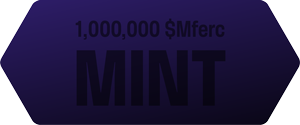
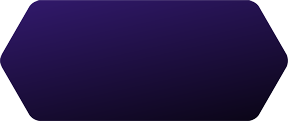
样式调整

diff --git a/src/views/BeeSilver/BeeSilver.scss b/src/views/BeeSilver/BeeSilver.scss
@@ -83,7 +83,7 @@
             width: 53px;
             height: 30px;
             position: absolute;
-            bottom: -2px;
+            bottom: -1px;
             z-index: 3;
           }
           &::before{
@@ -201,7 +201,7 @@
       .bee-img{
         width: 25rem;
         height: 25rem;
-        overflow: hidden;
+        // overflow: hidden;
         position: absolute;
         top: 1rem;
         left: 4rem;
@@ -215,12 +215,12 @@
 					z-index: 9;
         }
         &:before{
-          top: 0;
+          top: -1px;
           background: url("@/assets/img/s_bee_card_border_up.png") no-repeat;
           background-size: 100%;
         }
         &::after{
-          bottom: 0;
+          bottom: -1px;
           background: url("@/assets/img/s_bee_card_border_down.png") no-repeat;
           background-size: 100%;
         }

diff --git a/src/views/BeePurple/BeePurple.scss b/src/views/BeePurple/BeePurple.scss
@@ -35,11 +35,17 @@
      .btn-mint{
        width: 15rem;
        height: 6.25rem;
+			 text-align: center;
+			 line-height: 6.25rem;
+			 font-size: 3.5rem;
+			 font-weight: 900;
+			 color: #000;
        margin: 1rem auto 0;
        background: url("@/assets/img/btn_main_dis.png") no-repeat;
        background-size: 100%;
        position: relative;
        z-index: 3;
+			 cursor: default;
      }
      .num-cont{
        color: $color-w-l;

diff --git a/src/views/BeePurple/BeePurple.vue b/src/views/BeePurple/BeePurple.vue
@@ -4,7 +4,7 @@
     <article>
       <section class="cont">
         <div class="bee-bg fx-align">敬请期待</div>
-        <div class="btn-mint"></div>
+        <div class="btn-mint">MINT</div>
         <div class="num-cont fx-align"><span class="f-b">限量：0</span>/666</div>
         <div class="tips fx-align"><i class="icon-i"></i><span>紫蜂NFT说明书</span></div>
       </section>
